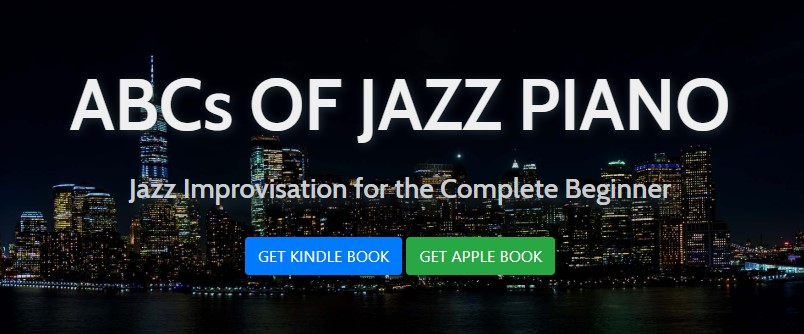
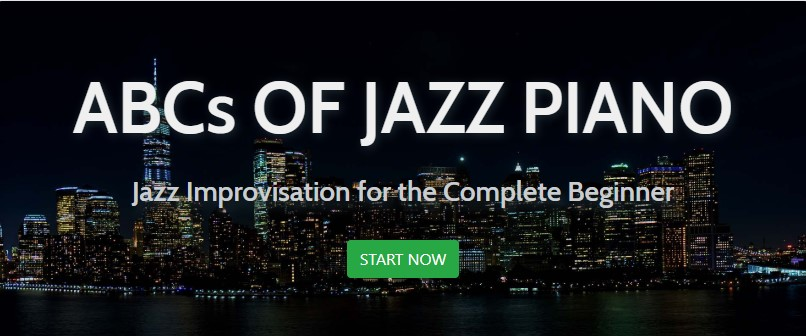
Change abcs image

diff --git a/index.html b/index.html
@@ -48,7 +48,7 @@
                 </div>
                 
                 <div id="sebastian" class="project-tile">
-                    <a href="https://abcsofjazz.com/"><img src="./images/abcs.png" width=100% height=auto alt="Sebastian Jack Site"></a>
+                    <a href="https://abcsofjazz.com/"><img src="./images/abcs_of_jazz-image.jpg" width=100% height=auto alt="Sebastian Jack Site"></a>
                 </div>
 
                 <div id="pruett" class="project-tile">
